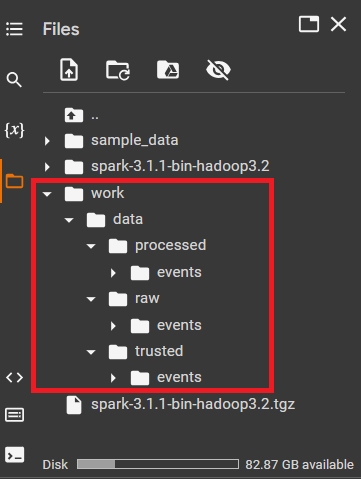
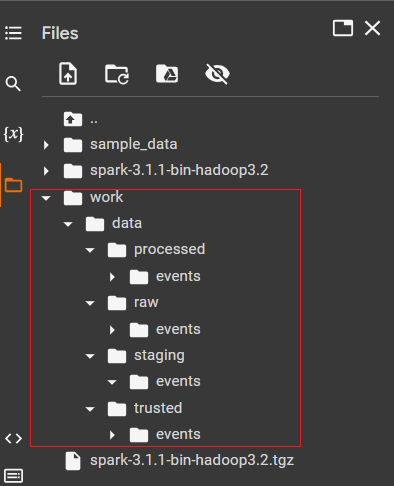
feat: finish README.md with pipeline steps drescription and diagram png file

diff --git a/README.md b/README.md
@@ -1,6 +1,6 @@
 # Pismo Recruiting Technical Case
 
-O projeto tem como propósito propor uma solução ao caso técnico descrito em ![Desafio_-_Engenheiro_de_Dados.pdf](docs/Desafio_-_Engenheiro_de_Dados.pdf).
+O projeto tem como propósito propor uma solução ao caso técnico descrito em [Desafio_-_Engenheiro_de_Dados.pdf](https://github.com/eder1985/pismo_recruiting_technical_case/blob/main/docs/Desafio_-_Engenheiro_de_Dados.pdf).
 
 ## 1. Considerações sobre o ambiente de trabalho
 *Utilizei o Google Colab para criar o notebook da solução. A facilidade para instalar as dependências e vincular o código do notebook ao Github foi decisivo para a escolha. Meu ambiente de trabalho contou ainda com:*
@@ -10,9 +10,10 @@ O projeto tem como propósito propor uma solução ao caso técnico descrito em 
 
 *Como repositório dos dados (fonte e destino) para utilização ao longo do processo, é utilizada a seguinte estrutura de diretórios:*
 
-- `work/data/processed/events`: bucket dos dados raw já processados. Contém arquivos .json que já foram processados na camada raw.
-- `work/data/raw/events`: bucket dos dados raw. Contém arquivos no formato json resultado do processo de geração de dados fake. É a fonte de dados da pipeline que moverá dados para a camada trusted.  
+- `work/data/raw/events`: bucket dos dados raw. Contém arquivos no formato json resultado do processo de geração de dados fake.
+- `work/data/staging/events`: bucket dos dados staging ou dados passageiros. Contém os arquivos com os dados brutos em um formato parquet, mais otimizado para aplicar as transformações. É a fonte de dados da pipeline que moverá dados para a camada trusted.  
 - `work/data/trusted/events`: bucket dos dados transformados. Os dados estão particionados por event_type e dia e estão no formato parquet. Não há dados duplicados e os dados estão devidamente tipados.
+- `work/data/processed/events`: bucket dos dados raw já processados. Contém arquivos .json que já foram processados na camada raw e staging e já chegaram na camada final trusted.
 
 ![](docs/diretorios.png)
     
@@ -34,7 +35,7 @@ Segue abaixo maiores detalhes:*
 - *Para o campo `timestamp`, utilizei o método nativo da lib Faker e a classe datetime para gerar timestamps dos últimos 3 anos;*
 - *Para o campos `event_type`, criei uma classe Provider customizada gerando apenas 2 tipos de event_type: `account-status-change` e `transaction-new-value`;*
 - *Para o campo `domain`, seu valor é gerado a partir do split na string do event_type, para gerar um dado com sentido: domain `account` será vinculado apenas com event_type `account-status-change` e domain `transaction` somente com event_type `transaction-new-value`;*
-- *Para o campo `data`, criei uma classe Provider customizada gerando um dicionário com 2 schemas diferentes para cada event-type. Para o subcampo status, criei uma classe Provider customizada. Para os outros subcampos, utilizei os métodos nativos da lib Faker;*
+- *Para o campo `data`, criei uma função `custom_data(fake:Faker)` que retorna um dicionário com 2 schemas diferentes para cada event-type. Para o subcampo status, criei uma classe Provider customizada. Para os outros subcampos, utilizei os métodos nativos da lib Faker;*
 - 3 funções criadas:
     - A função `write_fake_data()` com parâmetros de entrada:       
         - `fake:Faker` -> objeto Faker
@@ -56,9 +57,20 @@ Segue abaixo maiores detalhes:*
 
 ### 2.4 Proposta de pipeline ao desafio proposto
 
-## 3. Referências Bibliográficas
+*O pipeline segue os seguintes passos:*
 
-## Considerações sobre o ambiente de trabalho
+![](docs/pipeline.png)
+
+- *Passo 1: Usando Spark, faz-se a leitura dos dados brutos em formato json, hospedados na camada raw;*
+- *Passo 2: Usando Spark, faz-se a escrita dos dados brutos em formato parquet na camada staging. A motivação está no fato do formato parquet ser mais apropriado para aplicar as transformações necessárias;*
+- *Passo 3: Usando Spark, faz-se a leitura dos dados brutos em formato parquet na camada staging;*
+- *Passo 4: Usando Spark, aplica-se as transformações necessárias aos dados;*
+- *Passo 5: Usando Spark, faz-se a escrita dos dados transformados em formato parquet, particionando por tipo de evendo e dia, na camada trusted;*
+- *Passo 6: Faz-se operação de movimentação dos arquivos brutos processados da camada raw para a camada processed. Também faz-se a limpeza dos dados da camada staging.*
+
+*Maiores detalhes do fluxo desse pipeline são descritos no próprio notebook.*
+
+## 3. Referências Bibliográficas
 
 - https://faker.readthedocs.io/en/master/index.html
 - https://sparkbyexamples.com/
